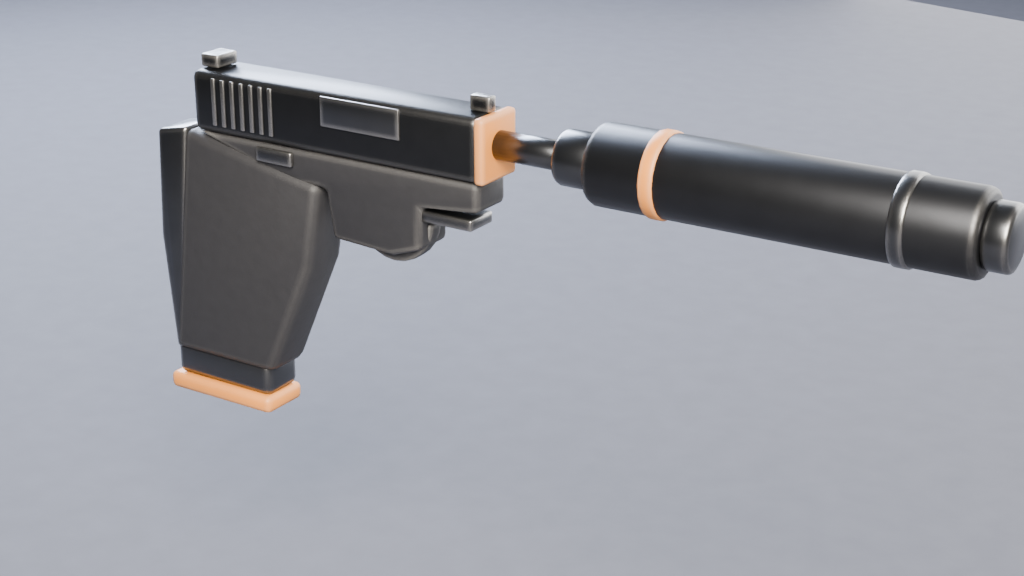
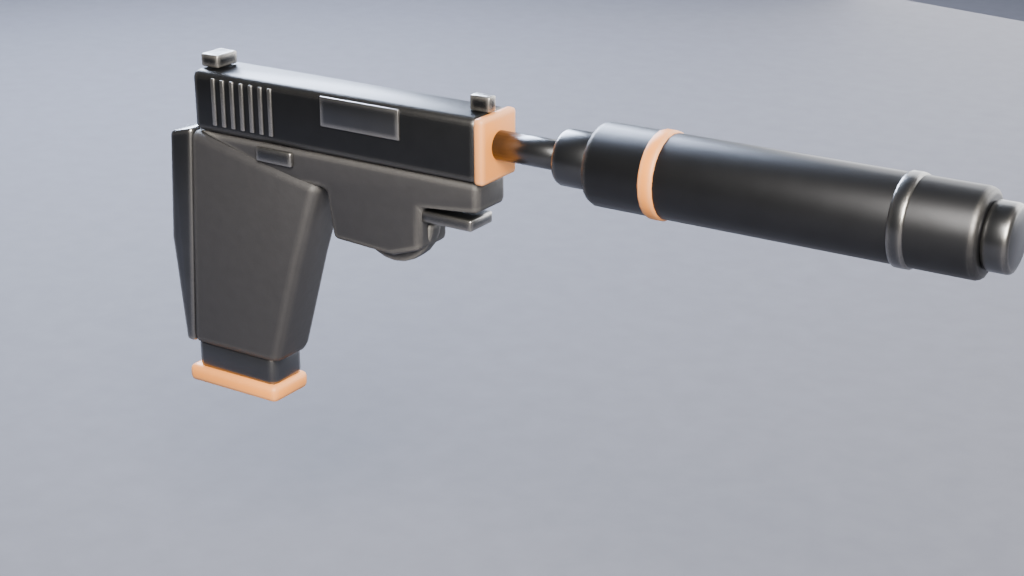
feat(art): sniper renders and slimmer pistol grip
Claude-Session: https://claude.ai/code/session_01HYo6EY2kdMycxCeuxVvdPV

Changed region(s): [[0.1562, 0.2188, 0.3125, 0.7188], [0.3125, 0.4062, 0.3438, 0.5], [0.2812, 0.5, 0.3125, 0.5625]]

diff --git a/tools/art/pistol.py b/tools/art/pistol.py
@@ -47,16 +47,16 @@ cap = box('SlideCap', (0.006, 0.031, 0.034), (0.090, 0, 0.033), 0.002, fox)
 child(slide, cap)
 # ---- armação: parte de baixo do ferrolho, guarda-mato longo e cabo inclinado com carregador
 add(profile('Frame', [(-0.098, 0.016), (0.088, 0.016), (0.088, 0.000), (0.052, -0.003), (0.052, -0.026), (0.034, -0.032), (-0.004, -0.030), (-0.008, -0.004), (-0.012, -0.003), (-0.034, -0.004)], 0.026, frame_m, 0.003))
-add(profile('Grip', [(-0.100, 0.016), (-0.012, -0.002), (-0.028, -0.050), (-0.046, -0.112), (-0.108, -0.112)], 0.030, frame_m, 0.005))
+add(profile('Grip', [(-0.030, 0.010), (-0.094, 0.016), (-0.112, -0.114), (-0.056, -0.114)], 0.030, frame_m, 0.005))
 add(profile('TriggerGuard', arc_pts(0.030, -0.014, 0.024, 0.017, 180, 360, 12), 0.010, frame_m, 0.0015))
-add(profile('BackStrap', [(-0.100, 0.016), (-0.116, 0.012), (-0.120, -0.050), (-0.114, -0.112), (-0.108, -0.112)], 0.026, steel, 0.002))
+add(profile('BackStrap', [(-0.094, 0.016), (-0.106, 0.012), (-0.124, -0.114), (-0.112, -0.114)], 0.026, steel, 0.002))
 trig = profile('Trigger', [(0.020, -0.012), (0.027, -0.012), (0.030, -0.034), (0.022, -0.034)], 0.007, steel, 0.001)
 trig.name = 'Trigger'
 parts.append(trig)
-mag = box('Magazine', (0.056, 0.026, 0.020), (-0.078, 0, -0.118), 0.004, steel)
+mag = box('Magazine', (0.050, 0.026, 0.020), (-0.084, 0, -0.120), 0.004, steel, rot=(0, math.radians(-9), 0))
 parts.append(mag)
-add(box('MagFloorPlate', (0.064, 0.030, 0.010), (-0.080, 0, -0.131), 0.003, fox))
-add(box('GripPanelL', (0.040, 0.002, 0.066), (-0.066, 0.0155, -0.055), 0.002, steel, rot=(0, math.radians(14), 0)))
+add(box('MagFloorPlate', (0.062, 0.030, 0.010), (-0.086, 0, -0.133), 0.003, fox, rot=(0, math.radians(-9), 0)))
+add(box('GripPanelL', (0.040, 0.002, 0.066), (-0.072, 0.0155, -0.052), 0.002, steel, rot=(0, math.radians(10), 0)))
 add(box('SlideStop', (0.024, 0.003, 0.008), (-0.040, R * 0.0145, 0.010), 0.001, steel))
 add(box('Rail', (0.040, 0.020, 0.006), (0.062, 0, -0.008), 0.001, steel))
 # ---- cano e silenciador longo (com anéis laranja)
